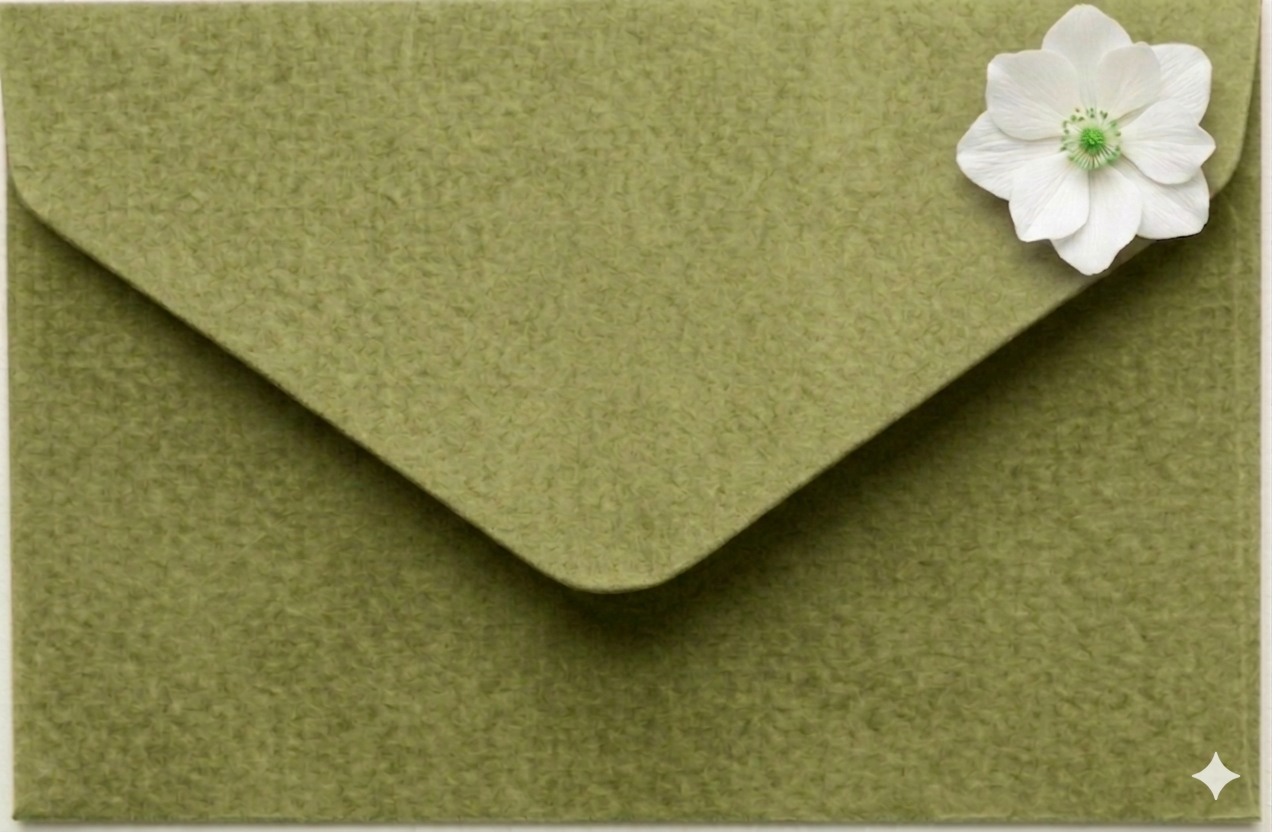
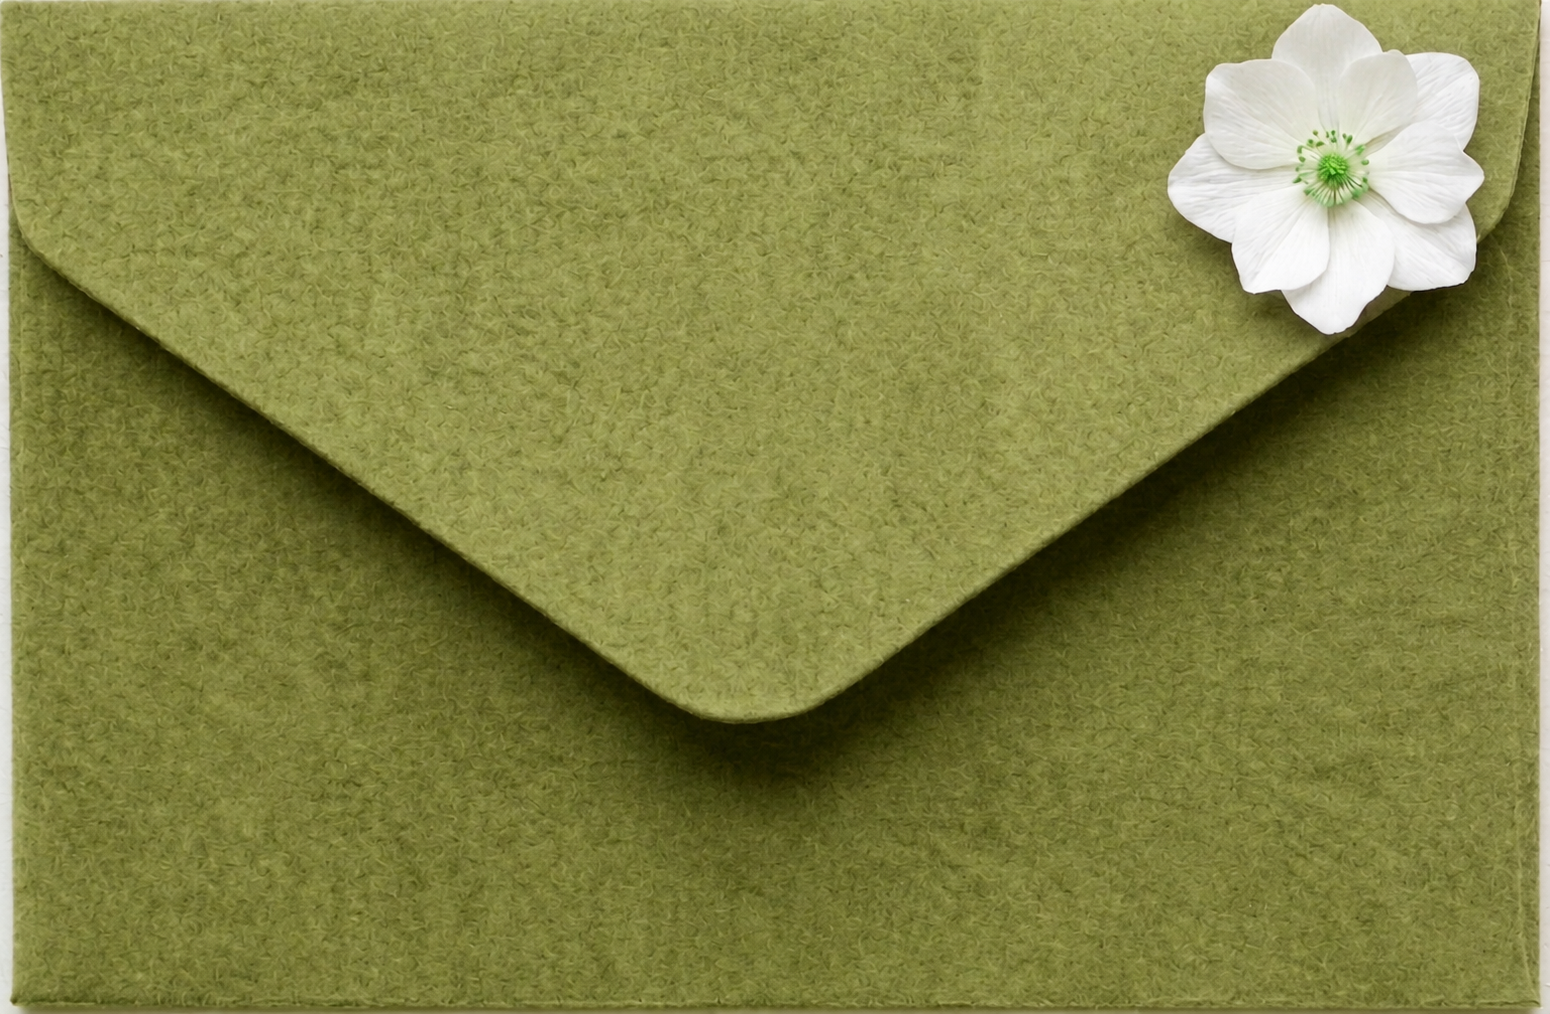
Subiendo invit

diff --git a/index.html b/index.html
@@ -178,17 +178,21 @@
         /* --- SECCIÓN 1: CABECERA --- */
        /* --- SECCIÓN 1: CABECERA (ACTUALIZADA CON FOTO DE FONDO) --- */
        /* --- SECCIÓN 1: CABECERA OPTIMIZADA CON PROPORCIÓN DE IMAGEN --- */
-.header-section {
-    position: relative;
-    width: 100%;
-    aspect-ratio: 16 / 9; 
-    max-height: 85vh;
-    display: flex;
-    justify-content: center;
-    align-items: center;
-    overflow: hidden;
-    background-color: #f1eeee;
-}
+   /* --- SECCIÓN 1: CABECERA --- */
+        .header-section {
+            text-align: center;
+            padding: 60px 20px;
+            width: 100%;
+            box-sizing: border-box;
+            background-image: url('fondo1.png');
+            background-size: cover;
+            background-position: center;
+            display: flex;
+            flex-direction: column;
+            align-items: center;
+            min-height: 40vh;
+            justify-content: center;
+        }
 
 .header-section img {
     width: 100%;
@@ -453,17 +457,79 @@
         .hora { font-size: 0.9rem; letter-spacing: 1.5px; margin-bottom: 10px; }
         .btn-outline { display: inline-block; padding: 6px 18px; border: 1px solid #8d7a64; border-radius: 20px; color: #8d7a64; text-decoration: none; font-size: 0.55rem; letter-spacing: 1px; }
 
-        .seccion-itinerario { width: 100%; padding: 60px 10px; background-color: #ffffff; display: flex; flex-direction: column; align-items: center; box-sizing: border-box; }
-        .itinerario-titulo { font-family: 'Alex Brush', cursive; font-size: 2.2rem; color: #8d7a64; margin-bottom: 30px; }
-        .timeline { position: relative; max-width: 400px; width: 100%; }
-        .timeline::before { content: ''; position: absolute; left: 50%; width: 1px; height: 100%; background: rgba(141, 122, 100, 0.3); transform: translateX(-50%); }
-        .timeline-item { position: relative; margin-bottom: 30px; width: 100%; display: flex; justify-content: center; align-items: center; }
-        .timeline-dot { position: absolute; left: 50%; transform: translateX(-50%); width: 8px; height: 8px; background-color: #8d7a64; border-radius: 50%; z-index: 2; }
-        .timeline-content { width: 45%; padding: 0 10px; text-align: right; box-sizing: border-box; }
-        .timeline-item:nth-child(even) .timeline-content { text-align: left; order: 2; }
-        .timeline-item:nth-child(even) .timeline-time { text-align: right; order: 0; }
-        .timeline-time { width: 45%; font-family: 'Tenor Sans', sans-serif; font-size: 0.75rem; color: #8d7a64; text-align: left; padding: 0 10px; box-sizing: border-box; }
-        .timeline-desc { font-size: 0.6rem; text-transform: uppercase; letter-spacing: 1px; font-weight: 600; margin: 0; }
+      /* Contenedor principal */
+.seccion-itinerario { 
+    width: 100%; 
+    padding: 60px 10px; 
+    background-color: #ffffff; 
+    display: flex; 
+    flex-direction: column; 
+    align-items: center; 
+}
+
+.itinerario-titulo { 
+    font-family: 'Alex Brush', cursive; 
+    font-size: 2.5rem; 
+    color: #8d7a64; 
+    margin-bottom: 40px; 
+}
+.timeline {
+    position: relative;
+    max-width: 600px;
+    margin: 40px auto;
+}
+
+/* La línea central */
+.timeline::before {
+    content: '';
+    position: absolute;
+    left: 50%;
+    top: 0;
+    width: 2px;
+    height: 100%;
+    background-color: #a8a08a;
+    transform: translateX(-50%);
+}
+
+.timeline-item {
+    display: flex;
+    align-items: center;
+    justify-content: space-between;
+    width: 100%;
+    margin-bottom: 50px;
+    position: relative;
+}
+
+/* El punto en la línea */
+.timeline-item::after {
+    content: '';
+    position: absolute;
+    left: 50%;
+    width: 12px;
+    height: 12px;
+    background-color: #a8a08a;
+    border-radius: 50%;
+    transform: translateX(-50%);
+}
+
+.timeline-icon { width: 45%; }
+.timeline-icon img { width: 60px; height: 60px; display: block; object-fit: contain; }
+
+.timeline-content { width: 45%; }
+
+/* Lógica para que se vean alternados */
+/* Ítems impares: Icono a la izquierda, texto a la derecha */
+.timeline-item:nth-child(odd) .timeline-icon { text-align: right; }
+.timeline-item:nth-child(odd) .timeline-content { text-align: left; }
+
+/* Ítems pares: Texto a la izquierda, icono a la derecha */
+.timeline-item:nth-child(even) { flex-direction: row-reverse; }
+.timeline-item:nth-child(even) .timeline-icon { text-align: left; }
+.timeline-item:nth-child(even) .timeline-content { text-align: right; }
+
+/* Estilos de texto */
+.timeline-desc { font-weight: bold; font-family: serif; margin: 0; }
+.timeline-time { font-family: sans-serif; color: #555; font-size: 0.9rem; }
 
         .seccion-regalos { 
             width: 100%; 
@@ -781,6 +847,65 @@
     display:none;
 }
 
+/* Opcional: Para que tenga una animación al aparecer */
+.seccion-foto-grande {
+    opacity: 0;
+    transition: opacity 1.5s ease-in-out;
+}
+
+.seccion-foto-grande.active {
+    opacity: 1;
+}
+.seccion-foto-destacada {
+    background-image: url('fondo3.png');
+    background-size: cover;
+    background-position: center;
+    background-attachment: fixed; /* Opcional: crea efecto de profundidad al hacer scroll */
+    padding: 60px 20px; /* Espacio interno para que el fondo se vea alrededor */
+    display: flex;
+    justify-content: center;
+    align-items: center;
+}
+
+.contenedor-foto-grande {
+    width: 95%;
+    max-width: 700px;
+    height: 500px;
+    overflow: hidden;
+    border-radius: 20px;
+    box-shadow: 0 15px 30px rgba(0,0,0,0.2);
+}
+
+.foto-principal {
+    width: 100%;
+    height: 100%;
+    object-fit: cover;
+    object-position: center;
+}
+/* Efecto suave al hacer hover */
+.foto-principal:hover {
+    transform: scale(1.02);
+}
+.seccion-foto-destacada {
+    /* Fuerza al contenedor a tener una altura visible */
+    min-height: 400px; 
+    
+    /* Configuración del fondo */
+    background-image: url('fondo3.png');
+    background-size: cover;
+    background-position: center;
+    background-repeat: no-repeat;
+    
+    /* Centrado de la foto */
+    display: flex;
+    justify-content: center;
+    align-items: center;
+    
+    /* Espaciado */
+    padding: 40px 20px;
+    width: 100%;
+}
+
 
 }
 
@@ -801,17 +926,24 @@
         </button>
     </div>
 
-    <div class="header-section">
-        <img src="foto200.png" class="header-bg" alt="Julissa y Bryan">
-    </div>
 
-    <!-- Botón y archivo de audio -->
-    <div id="music-player" class="music-player" onclick="toggleMusic()">
-        <div class="play-button"></div>
-    </div>
-    <audio id="bg-music" loop>
+    <audio id="musica-boda" loop>
         <source src="musica.mp3" type="audio/mpeg">
     </audio>
+
+    <div class="header-section">
+        <div class="music-player" id="boton-musica">
+            <div class="play-button"></div>
+        </div>
+        <p class="cursive">¡Nos casamos!</p>
+        <h1 class="nombres-tit">Julissa & Bryan</h1>
+    </div>
+        <!-- Nueva sección de foto grande -->
+<div class="seccion-foto-destacada reveal">
+    <div class="contenedor-foto-grande">
+        <img src="principal.jpeg" alt="Julissa & Bryan" class="foto-principal">
+    </div>
+</div>
         
     <div class="escena-invitacion">
         <div class="sobre-container">
@@ -855,46 +987,59 @@
         </div>
     </div>
 
-    <div class="seccion-itinerario reveal">
-        <h2 class="itinerario-titulo">Itinerario</h2>
-        <div class="timeline">
-            <div class="timeline-item">
-                <div class="timeline-dot"></div>
-                <div class="timeline-content"><p class="timeline-desc">Ceremonia Religiosa</p></div>
+ <div class="seccion-itinerario">
+    <h2 class="itinerario-titulo">Itinerario</h2>
+    <div class="timeline">
+        
+        <div class="timeline-item">
+            <div class="timeline-icon"><img src="misa.png" alt="Icono"></div>
+            <div class="timeline-content">
+                <p class="timeline-desc">Ceremonia Religiosa</p>
                 <div class="timeline-time">17:00 hs</div>
             </div>
+        </div>
 
-            <div class="timeline-item">
-                <div class="timeline-dot"></div>
-                <div class="timeline-content"><p class="timeline-desc">Recepción</p></div>
+        <div class="timeline-item">
+            <div class="timeline-icon"><img src="recep.png" alt="Icono"></div>
+            <div class="timeline-content">
+                <p class="timeline-desc">Recepción</p>
                 <div class="timeline-time">19:00 hs</div>
             </div>
+        </div>
 
-            <div class="timeline-item">
-                <div class="timeline-dot"></div>
-                <div class="timeline-content"><p class="timeline-desc">Entrada de los Novios</p></div>
+        <div class="timeline-item">
+            <div class="timeline-icon"><img src="nov.png" alt="Icono"></div>
+            <div class="timeline-content">
+                <p class="timeline-desc">Entrada de los Novios</p>
                 <div class="timeline-time">19:15 hs</div>
             </div>
+        </div>
 
-            <div class="timeline-item">
-                <div class="timeline-dot"></div>
-                <div class="timeline-content"><p class="timeline-desc">Buen Provecho (Cena)</p></div>
+        <div class="timeline-item">
+            <div class="timeline-icon"><img src="cenas.png" alt="Icono"></div>
+            <div class="timeline-content">
+                <p class="timeline-desc">Buen Provecho (Cena)</p>
                 <div class="timeline-time">20:00 hs</div>
             </div>
+        </div>
 
-            <div class="timeline-item">
-                <div class="timeline-dot"></div>
-                <div class="timeline-content"><p class="timeline-desc">¡A Bailar!</p></div>
+        <div class="timeline-item">
+            <div class="timeline-icon"><img src="bailar.png" alt="Icono"></div>
+            <div class="timeline-content">
+                <p class="timeline-desc">¡A Bailar!</p>
                 <div class="timeline-time">22:00 hs</div>
             </div>
+        </div>
 
-            <div class="timeline-item">
-                <div class="timeline-dot"></div>
-                <div class="timeline-content"><p class="timeline-desc">Felices por Siempre</p></div>
+        <div class="timeline-item">
+            <div class="timeline-icon"><img src="fin.png" alt="Icono"></div>
+            <div class="timeline-content">
+                <p class="timeline-desc">Felices por Siempre - Fin</p>
                 <div class="timeline-time">23:00 hs</div>
             </div>
         </div>
     </div>
+</div>
 
     <div class="seccion-regalos reveal">
         <div class="tarjeta-regalo-cafe">